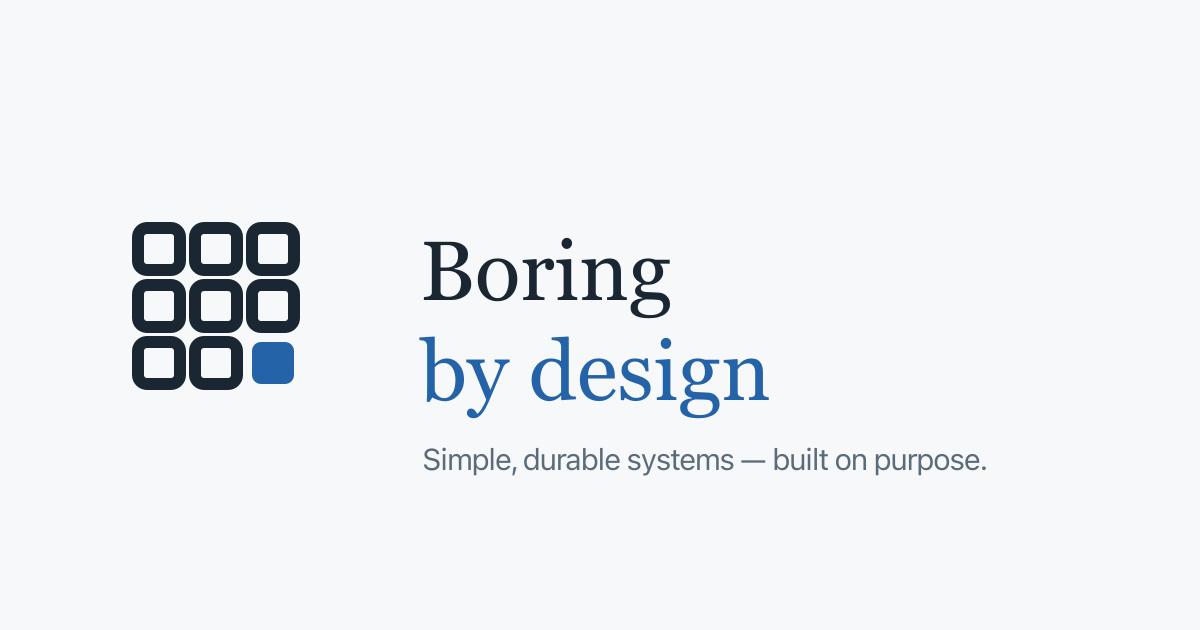
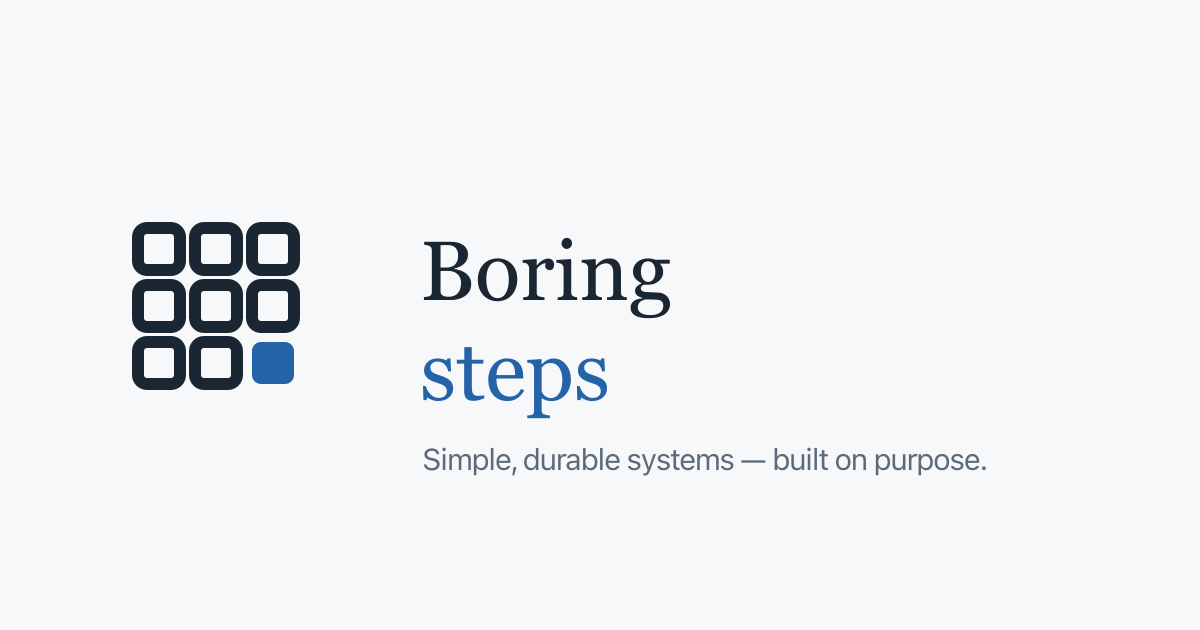
refactor: rename boringbydesign → boringsteps across code and config refs #4
Switch the project identity to boringsteps: brand wordmark "Boring by
design" → "Boring steps", custom domain → boringsteps.org (canonical;
.com will redirect), npm package name, GitHub links, and the Atom feed's
fallback domain. The GitHub repo and local remote are renamed separately.

- CNAME → boringsteps.org; package.json name → boringsteps
- config title, og/twitter URLs, GitHub social link, logo alt
- wordmark text in theme, logos (aria-label), docs, README, build script
- regenerate og-image with the new "Boring / steps" wordmark

Changed region(s): [[0.3392, 0.5127, 0.6475, 0.6635]]

diff --git a/documentation/.vitepress/theme/index.ts b/documentation/.vitepress/theme/index.ts
@@ -4,7 +4,7 @@ import { h } from 'vue'
 import PostNav from './PostNav.vue'
 import './custom.css'
 
-// Extend the VitePress default theme with the Boring by design identity.
+// Extend the VitePress default theme with the Boring steps identity.
 // Keeping the default theme (rather than forking it) means the brand lives
 // entirely in custom.css and survives VitePress upgrades. The doc-after slot
 // adds the data-driven previous/next bar below every post body; PostNav

diff --git a/documentation/.vitepress/theme/custom.css b/documentation/.vitepress/theme/custom.css
@@ -1,4 +1,4 @@
-/* Boring by design — brand tokens over the VitePress default theme.
+/* Boring steps — brand tokens over the VitePress default theme.
    Values mirror documentation/identity.md. */
 
 :root {

diff --git a/scripts/build_posts.py b/scripts/build_posts.py
@@ -1,5 +1,5 @@
 #!/usr/bin/env python3
-"""Build the blog index for Boring by design.
+"""Build the blog index for Boring steps.
 
 Scans every root documentation/*.md carrying a ``date:`` field, reads its
 frontmatter and first paragraph, and writes a newest-first JSON index to
@@ -24,7 +24,7 @@ OUT = PUBLIC / "posts.json"
 FEED = PUBLIC / "atom.xml"
 CNAME = PUBLIC / "CNAME"
 
-SITE_TITLE = "Boring by design"
+SITE_TITLE = "Boring steps"
 
 # Pages that are never posts even if edited to carry a date.
 EXCLUDE = {"index.md", "about.md", "blog-structure.md", "identity.md", "history.md"}
@@ -98,7 +98,7 @@ def collect_posts() -> list[dict[str, object]]:
 
 def site_base() -> str:
     """Canonical site URL from the CNAME file, falling back to the apex."""
-    domain = "boringbydesign.org"
+    domain = "boringsteps.org"
     if CNAME.exists():
         value = CNAME.read_text(encoding="utf-8").strip()
         if value:

diff --git a/README.md b/README.md
@@ -1,9 +1,9 @@
-# Boring by design
+# Boring steps
 
 A blog and book site, authored in Markdown and published as a static
 [VitePress](https://vitepress.dev/) site on
 [GitHub Pages](https://docs.github.com/en/pages) at
-[boringbydesign.org](https://boringbydesign.org).
+[boringsteps.org](https://boringsteps.org).
 
 ## Layout
 
@@ -47,6 +47,6 @@ site and deploys it to GitHub Pages. One-time setup: in the repository
 **Settings → Pages**, set the publishing **Source** to **GitHub Actions**.
 
 The custom domain and HTTPS are configured per the GitHub Pages documentation:
-verify `boringbydesign.org` at the account level, add it in **Settings → Pages**,
+verify `boringsteps.org` at the account level, add it in **Settings → Pages**,
 point apex `A`/`AAAA` records and a `www` `CNAME` at GitHub, then enable
 **Enforce HTTPS**.

diff --git a/documentation/blog-structure.md b/documentation/blog-structure.md
@@ -4,7 +4,7 @@ layout: doc
 
 # Blog structure
 
-How posts are authored, addressed, and indexed on **Boring by design**. Posts
+How posts are authored, addressed, and indexed on **Boring steps**. Posts
 are independent essays; the only thing they share is the boring principle.
 
 ## Flat URLs and deep linking
@@ -12,7 +12,7 @@ are independent essays; the only thing they share is the boring principle.
 Each post is a single Markdown file at the **root** of the docs tree:
 
 ```
-documentation/<slug>.md   →   https://boringbydesign.org/<slug>
+documentation/<slug>.md   →   https://boringsteps.org/<slug>
 ```
 
 There is no `/blog` segment. The flat `/<slug>` URL is the post's permanent

diff --git a/documentation/identity.md b/documentation/identity.md
@@ -1,6 +1,6 @@
 # Visual identity
 
-The visual identity for **Boring by design** is deliberately restrained. The
+The visual identity for **Boring steps** is deliberately restrained. The
 site argues for simple, durable systems, so its look earns trust through
 clarity rather than decoration: a quiet neutral base, one reserved accent, a
 readable serif for prose, and a single geometric mark.

diff --git a/documentation/about.md b/documentation/about.md
@@ -4,7 +4,7 @@ layout: doc
 
 # About
 
-_Boring by design_ is a blog about building simple, durable systems on purpose.
+_Boring steps_ is a blog about building simple, durable systems on purpose.
 The bet is that boring — proven, predictable tools and plain structures — beats
 novelty for its own sake, and lets the ideas stay the interesting part.
 
